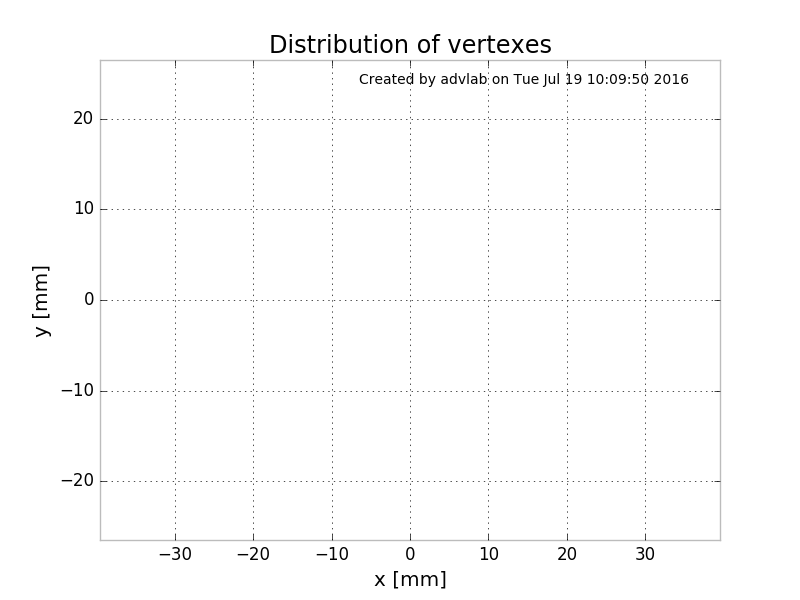
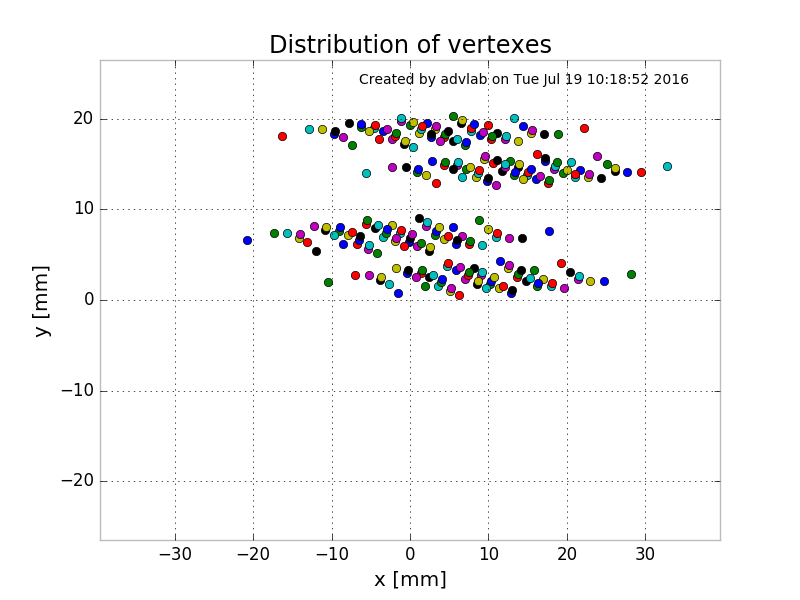
KF works! but still a problem when we have just one peak!

diff --git a/config/imaging_config.py b/config/imaging_config.py
@@ -23,7 +23,7 @@ SIDEX = 80
 SIDEY = 55
 GRAN = 10
 OUTFILE = 'redbox_imaging.root'
-KF_OUTFILE = 'kf_test_lines.root'
+KF_OUTFILE = 'KF_vertexing.png'
 
 INFILES = np.array([os.path.join(ADVLAB_DATA, 'scan_0_40.dat'),
                     os.path.join(ADVLAB_DATA, 'scan_0_45.dat'),
@@ -88,24 +88,24 @@ INFILES = np.array([os.path.join(ADVLAB_DATA, 'scan_0_40.dat'),
                     os.path.join(ADVLAB_DATA, 'scan_160_115.dat'),
                     os.path.join(ADVLAB_DATA, 'scan_160_120.dat'),
                     os.path.join(ADVLAB_DATA, 'scan_160_125.dat'),
-                    os.path.join(ADVLAB_DATA, 'scan_200_40.dat'),
-                    os.path.join(ADVLAB_DATA, 'scan_200_45.dat'),
-                    os.path.join(ADVLAB_DATA, 'scan_200_50.dat'),
-                    os.path.join(ADVLAB_DATA, 'scan_200_55.dat'),
-                    os.path.join(ADVLAB_DATA, 'scan_200_60.dat'),
-                    os.path.join(ADVLAB_DATA, 'scan_200_65.dat'),
-                    os.path.join(ADVLAB_DATA, 'scan_200_70.dat'),
-                    os.path.join(ADVLAB_DATA, 'scan_200_75.dat'),
-                    os.path.join(ADVLAB_DATA, 'scan_200_80.dat'),
-                    os.path.join(ADVLAB_DATA, 'scan_200_85.dat'),
-                    os.path.join(ADVLAB_DATA, 'scan_200_90.dat'),
-                    os.path.join(ADVLAB_DATA, 'scan_200_95.dat'),
-                    os.path.join(ADVLAB_DATA, 'scan_200_20.dat'),
-                    os.path.join(ADVLAB_DATA, 'scan_200_25.dat'),
-                    os.path.join(ADVLAB_DATA, 'scan_200_30.dat'),
-                    os.path.join(ADVLAB_DATA, 'scan_200_35.dat'),
-                    os.path.join(ADVLAB_DATA, 'scan_200_100.dat'),
-                    os.path.join(ADVLAB_DATA, 'scan_200_105.dat'),
+                    #os.path.join(ADVLAB_DATA, 'scan_200_40.dat'),
+                    #os.path.join(ADVLAB_DATA, 'scan_200_45.dat'),
+                    #os.path.join(ADVLAB_DATA, 'scan_200_50.dat'),
+                    #os.path.join(ADVLAB_DATA, 'scan_200_55.dat'),
+                    #os.path.join(ADVLAB_DATA, 'scan_200_60.dat'),
+                    #os.path.join(ADVLAB_DATA, 'scan_200_65.dat'),
+                    #os.path.join(ADVLAB_DATA, 'scan_200_70.dat'),
+                    #os.path.join(ADVLAB_DATA, 'scan_200_75.dat'),
+                    #os.path.join(ADVLAB_DATA, 'scan_200_80.dat'),
+                    #os.path.join(ADVLAB_DATA, 'scan_200_85.dat'),
+                    #os.path.join(ADVLAB_DATA, 'scan_200_90.dat'),
+                    #os.path.join(ADVLAB_DATA, 'scan_200_95.dat'),
+                    #os.path.join(ADVLAB_DATA, 'scan_200_20.dat'),
+                    #os.path.join(ADVLAB_DATA, 'scan_200_25.dat'),
+                    #os.path.join(ADVLAB_DATA, 'scan_200_30.dat'),
+                    #os.path.join(ADVLAB_DATA, 'scan_200_35.dat'),
+                    #os.path.join(ADVLAB_DATA, 'scan_200_100.dat'),
+                    #os.path.join(ADVLAB_DATA, 'scan_200_105.dat'),
                     os.path.join(ADVLAB_DATA, 'scan_40_40.dat'),
                     os.path.join(ADVLAB_DATA, 'scan_40_45.dat'),
                     os.path.join(ADVLAB_DATA, 'scan_40_50.dat'),
